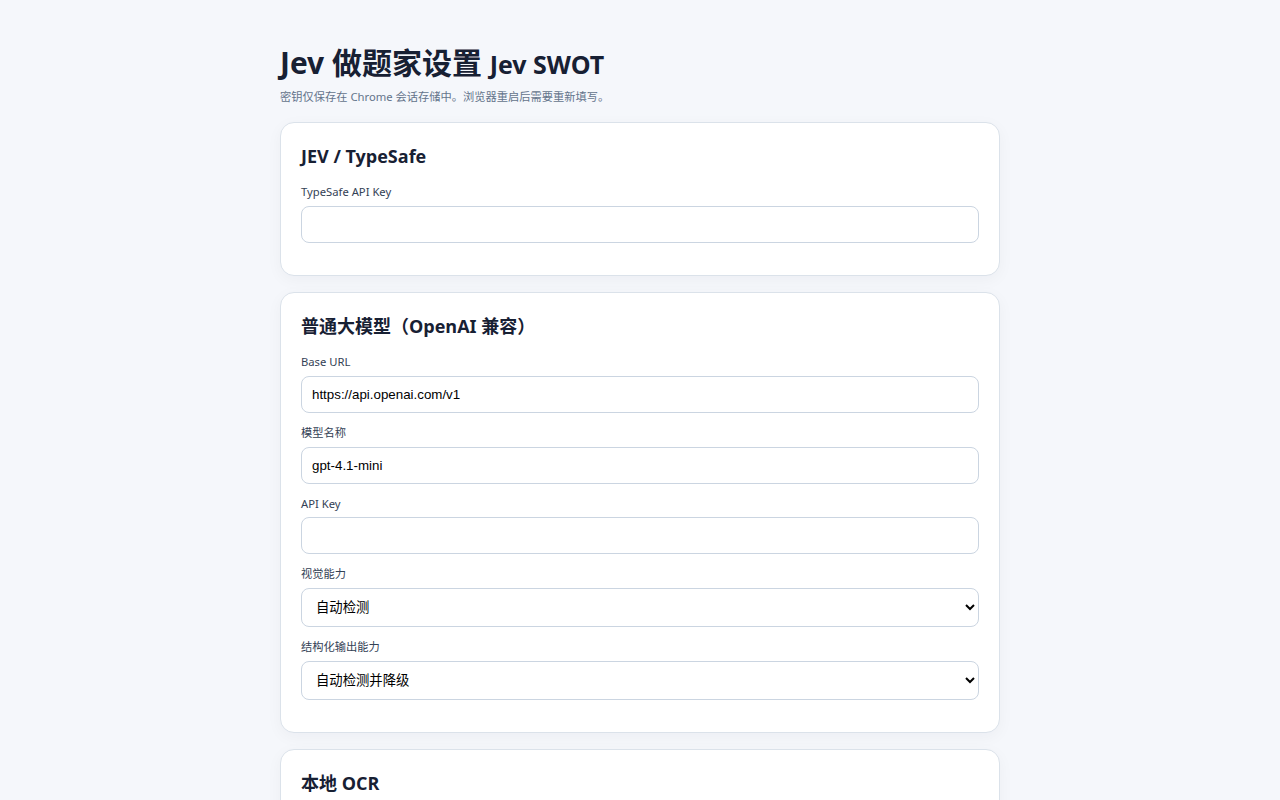
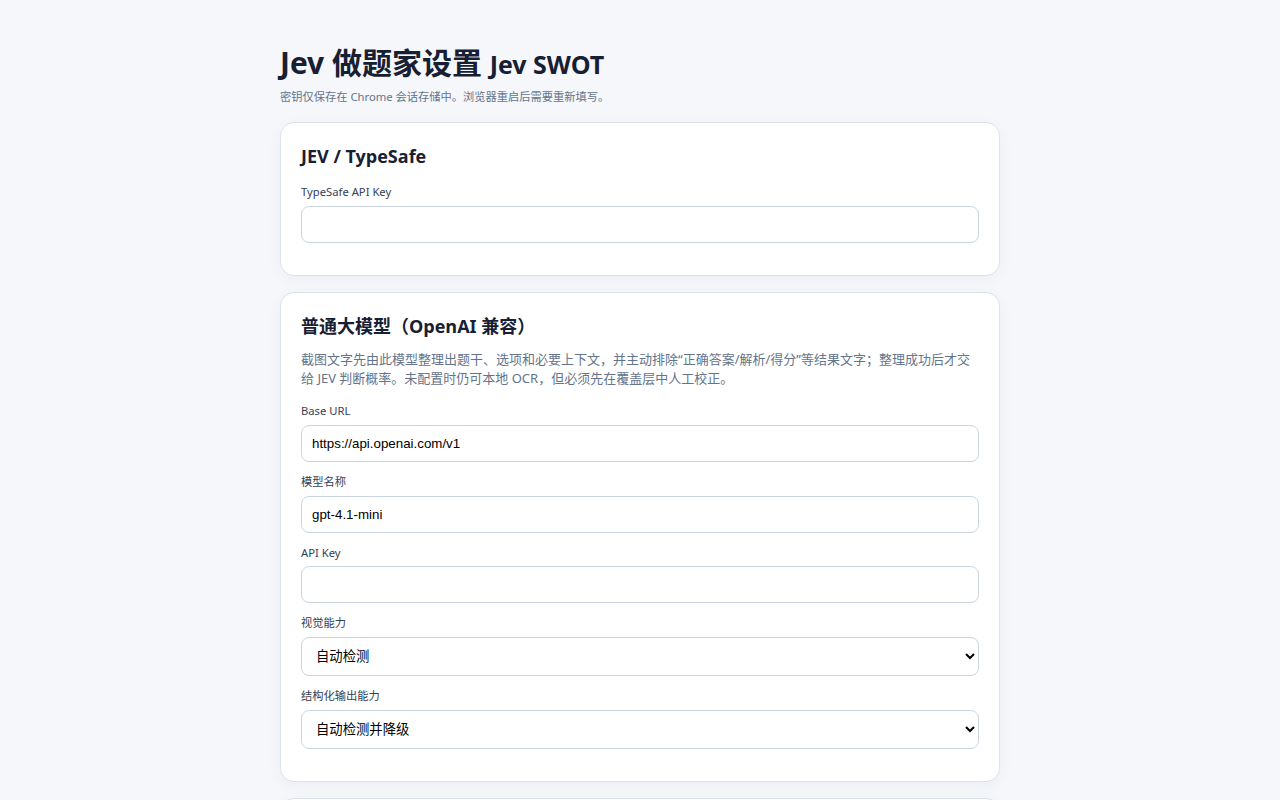
chore: refresh privacy copy and store assets

Changed region(s): [[0.2188, 0.4375, 0.75, 0.6562], [0.2188, 0.6875, 0.7812, 0.9375], [0.2188, 0.9688, 0.3125, 1.0]]

diff --git a/docs/privacy.html b/docs/privacy.html
@@ -4,7 +4,7 @@
 <body>
 <h1>Jev SWOT（Jev 做题家）隐私政策</h1><p>最后更新：2026 年 9 月 22 日</p>
 <p>Jev SWOT（Jev 做题家）只在用户通过快捷键、扩展按钮或 Alt + 双击主动触发时处理当前题目，不出售数据、不投放广告，也不自动勾选或提交网页答案。</p>
-<h2>处理的数据</h2><ul><li>扩展优先在设备内读取当前题目容器的可见 DOM 文本。</li><li>DOM 不完整时，扩展截取用户选择的题目区域。本地 PP-OCRv5 在设备上处理截图且不上传。</li><li>只有用户配置并实际启用视觉模型时，题目截图才会发送至该用户配置的 API；默认每次上传前询问。</li><li>如果配置了普通文本模型，OCR 文字和位置可能发送给该模型用于严格 JSON 结构化；模型会单独标出答案、解析、得分和页面杂讯，排除文字不会进入 JEV，也不会发送原始截图。</li><li>未配置普通文本模型时，扩展要求用户先人工校正 OCR 题干和选项。</li><li>TypeSafe Jev 接收经确认的题干、上下文和选项，以返回选项概率。</li><li>只有用户点击“答案解析”后，结构化题目及 JEV 概率才会额外发送至用户配置的普通模型。</li></ul>
+<h2>处理的数据</h2><ul><li>扩展优先在设备内读取当前题目容器的可见 DOM 文本。</li><li>DOM 不完整时，扩展截取当前题目区域（框选区域或 Alt + 双击定位到的题目容器）。本地 PP-OCRv5 在设备上处理截图且不上传。</li><li>只有用户配置并实际启用视觉模型时，题目截图才会发送至该用户配置的 API；默认每次上传前询问。</li><li>如果配置了普通文本模型，OCR 文字和位置可能发送给该模型用于严格 JSON 结构化；模型会单独标出答案、解析、得分和页面杂讯，排除文字不会进入 JEV，也不会发送原始截图。</li><li>未配置普通文本模型时，扩展要求用户先人工校正 OCR 题干和选项。</li><li>TypeSafe Jev 接收经确认的题干、上下文和选项，以返回选项概率。</li><li>只有用户点击“答案解析”后，结构化题目及 JEV 概率才会额外发送至用户配置的普通模型。</li></ul>
 <h2>存储与保留</h2><ul><li>API Key 仅保存在 <code>chrome.storage.session</code>，浏览器重启后清除。</li><li>模型地址、模型名、OCR 阈值和禁用站点列表保存在 <code>chrome.storage.local</code>。</li><li>扩展不持久保存网页正文、截图、OCR 内容、题目、答案或模型响应。</li></ul>
 <h2>第三方服务</h2><p>扩展会按用户操作调用 <a href="https://typesafe.ai/">TypeSafe API</a>，以及用户自行配置的 OpenAI 兼容 API。相应服务的数据处理受其各自政策约束。</p>
 <h2>控制与联系</h2><p>用户可以禁用指定站点、清除会话密钥、释放本地 OCR 内存，或卸载扩展。问题可通过 <a href="https://github.com/anyran/jev-swot/issues">GitHub Issues</a> 提交。</p>

diff --git a/docs/PRIVACY.md b/docs/PRIVACY.md
@@ -7,7 +7,7 @@ Jev SWOT（Jev 做题家）只在用户通过快捷键、扩展按钮或 `Alt + 
 ## 处理的数据
 
 - 首选在浏览器内读取题目容器的可见 DOM 文本。
-- DOM 不完整时，截取用户选中的题目区域。截图默认先征得本次上传许可；用户选择“仅本地 OCR”时不会上传图片。
+- DOM 不完整时，截取当前题目区域（框选区域或 `Alt + 双击`定位到的题目容器）。只有视觉模型可用且用户允许时才会上传截图；用户选择“仅本地 OCR”时不会上传图片。
 - 本地 OCR 识别出的文字和文本框位置可能发送给用户配置的普通文本模型，用于严格 JSON 结构化；模型会将题号、答案、解析、得分、对错标记和页面杂讯列为排除文本，不会把这些片段交给 JEV；这不会上传原始截图。
 - 如果未配置普通文本模型，扩展只保留本地规则拆分，并要求用户在调用 JEV 前人工确认题干和选项。
 - TypeSafe Jev 会收到用户确认后的题干、上下文和选项，用于返回选项概率。
